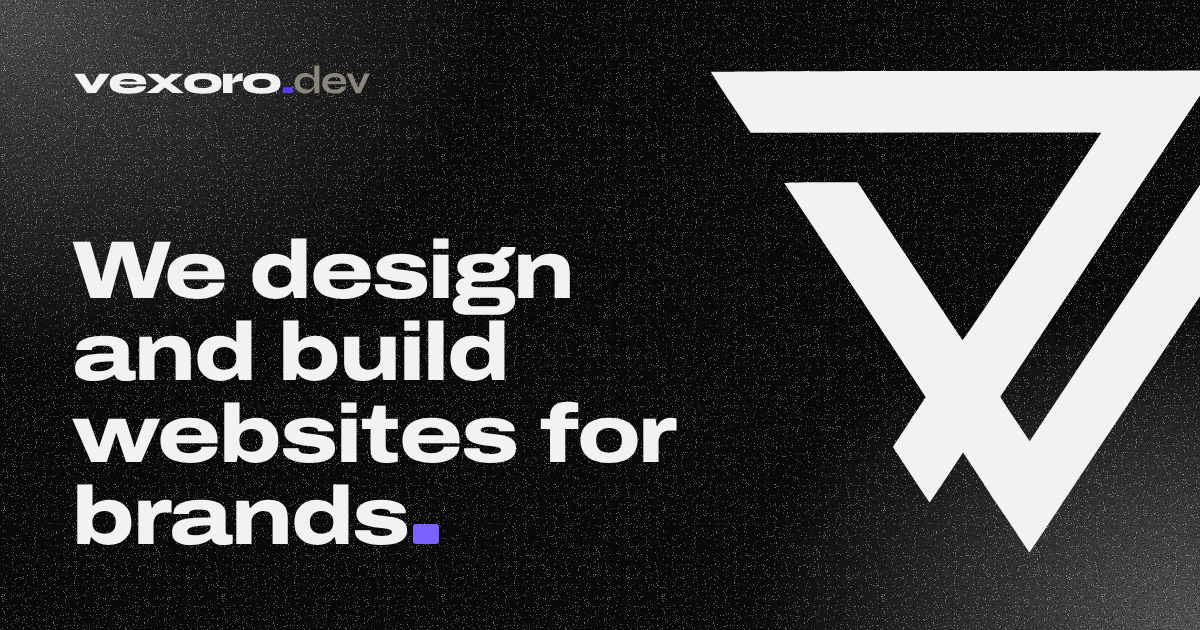
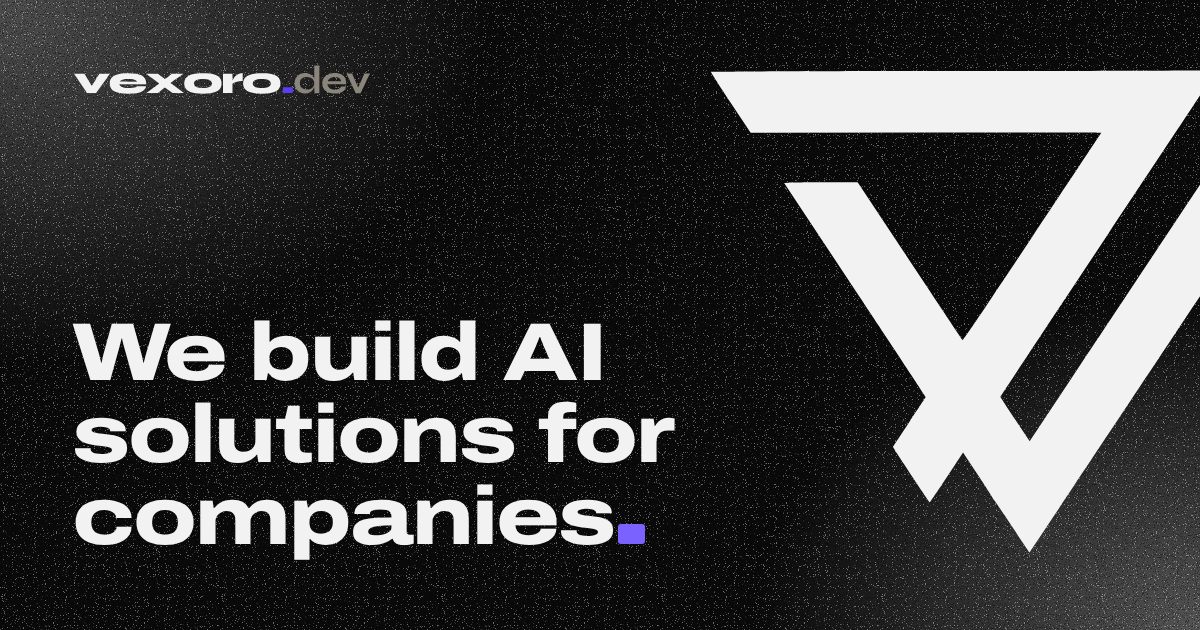
Reposition vexoro around AI solutions; branding and web become a part
- Hero, share image and home metadata lead with AI solutions for companies.
- New /ai page and home section: assistants, automation, document
  processing, knowledge assistants, custom AI, strategy (shared table
  component with Brand & Web).
- 'ai that works' scroll section with AI + brand/web icons.
- Nav: AI Solutions, Brand & Web, Process, Pricing, FAQ.
- Three AI FAQs; schema services/knowsAbout, site description,
  sitemap and llms.txt updated.

Claude-Session: https://claude.ai/code/session_01EvrcoXwkrmmrRvKsMQeviQ

Changed region(s): [[0.0617, 0.3619, 0.5242, 0.6032], [0.0617, 0.6333, 0.555, 0.9048], [0.4625, 0.6333, 0.555, 0.7238]]

diff --git a/components/sections.tsx b/components/sections.tsx
@@ -1,4 +1,4 @@
-// Home page sections, also rendered on their own routes (/services, /process, /seo, /faq, /contact).
+// Home page sections, also rendered on their own routes (/ai, /services, /process, /seo, /faq, /contact).
 // Pass h1 when a section is the main content of its page.
 import Link from "next/link";
 import { ContactForm } from "@/components/contact-form";
@@ -84,41 +84,61 @@ const faqData: FaqSectionData = {
     </>
   ),
   rows: [
-    { id: "row1", speed: "70s", direction: "left", faqItems: FAQS.slice(0, 3) },
-    { id: "row2", speed: "55s", direction: "right", faqItems: FAQS.slice(3, 5) },
-    { id: "row3", speed: "80s", direction: "left", faqItems: FAQS.slice(5) },
+    { id: "row1", speed: "75s", direction: "left", faqItems: FAQS.slice(0, 3) },
+    { id: "row2", speed: "60s", direction: "right", faqItems: FAQS.slice(3, 6) },
+    { id: "row3", speed: "85s", direction: "left", faqItems: FAQS.slice(6) },
   ],
 };
 
-export function ServicesSection({ h1 = false }: { h1?: boolean }) {
+const AI_SOLUTIONS = [
+  { name: "AI assistants", detail: "Chat assistants for your website and WhatsApp that answer customer questions, capture leads and book appointments, using your business information.", time: "Website, WhatsApp" },
+  { name: "Workflow automation", detail: "AI that handles repetitive work across your tools: data entry, follow-ups, summaries and reports.", time: "Email, sheets, CRM" },
+  { name: "Document processing", detail: "Pull the information you need out of invoices, forms, contracts and PDFs, and organise it automatically.", time: "PDFs, forms, invoices" },
+  { name: "Knowledge assistant", detail: "A private assistant that answers your team's questions from your own documents, policies and manuals.", time: "Your documents" },
+  { name: "Custom AI features", detail: "AI search, summaries and content tools built into your existing website, app or internal system.", time: "Your site or app" },
+  { name: "AI strategy", detail: "A workshop to find where AI saves your business the most time, with a clear plan and cost estimate before anything is built.", time: "Workshop + plan" },
+];
+
+type Row = { name: string; detail: string; time: string };
+function OfferTable({ id, title, lead, rows, cols, h1 }: { id: string; title: string; lead: React.ReactNode; rows: Row[]; cols: [string, string, string]; h1: boolean }) {
   const H = h1 ? "h1" : "h2";
   return (
-  <section className="section" id="services" aria-labelledby="services-title">
-    <div className="wrap">
-      <div className="section-head">
-        <H id="services-title">Services</H>
-        <p>Every project gets a fixed quote before work starts. Timelines assume content and feedback arrive on schedule. <Link className="text-link" href="/pricing">See packages and prices</Link>.</p>
+    <section className="section" id={id} aria-labelledby={`${id}-title`}>
+      <div className="wrap">
+        <div className="section-head">
+          <H id={`${id}-title`}>{title}</H>
+          <p>{lead}</p>
+        </div>
+        <table className="services">
+          <thead>
+            <tr>{cols.map((c) => <th key={c} scope="col">{c}</th>)}</tr>
+          </thead>
+          <tbody>
+            {rows.map((s) => (
+              <tr key={s.name}>
+                <th scope="row">{s.name}</th>
+                <td>{s.detail}</td>
+                <td>{s.time}</td>
+              </tr>
+            ))}
+          </tbody>
+        </table>
       </div>
-      <table className="services">
-        <thead>
-          <tr>
-            <th scope="col">Service</th>
-            <th scope="col">What you get</th>
-            <th scope="col">Typical time</th>
-          </tr>
-        </thead>
-        <tbody>
-          {SERVICES.map((s) => (
-            <tr key={s.name}>
-              <th scope="row">{s.name}</th>
-              <td>{s.detail}</td>
-              <td>{s.time}</td>
-            </tr>
-          ))}
-        </tbody>
-      </table>
-    </div>
-  </section>
+    </section>
+  );
+}
+
+export function AiSection({ h1 = false }: { h1?: boolean }) {
+  return (
+    <OfferTable id="ai" title="AI solutions" h1={h1} rows={AI_SOLUTIONS} cols={["Solution", "What it does", "Works with"]}
+      lead={<>AI built around how your company already works. Every project starts with a free consultation and a fixed quote. <Link className="text-link" href="/contact">Talk to us</Link>.</>} />
+  );
+}
+
+export function ServicesSection({ h1 = false }: { h1?: boolean }) {
+  return (
+    <OfferTable id="services" title="Brand & web" h1={h1} rows={SERVICES} cols={["Service", "What you get", "Typical time"]}
+      lead={<>The brand and website around your business. Every project gets a fixed quote before work starts. <Link className="text-link" href="/pricing">See packages and prices</Link>.</>} />
   );
 }
 

diff --git a/app/page.tsx b/app/page.tsx
@@ -1,5 +1,5 @@
 import { Mark } from "@/components/brand";
-import { ContactSection, FaqPageSection, ProcessSection, SeoSection, ServicesSection } from "@/components/sections";
+import { AiSection, ContactSection, FaqPageSection, ProcessSection, SeoSection, ServicesSection } from "@/components/sections";
 import { Skiper31 } from "@/components/ui/text-scroll-animation";
 import type { Metadata } from "next";
 import Link from "next/link";
@@ -7,9 +7,9 @@ import { homeStructuredData } from "@/lib/structured-data";
 import { pageMetadata } from "@/lib/site";
 
 
-const TITLE = "vexoro | Web Design & Development Studio in Oman";
+const TITLE = "vexoro | AI Solutions, Branding & Web Development in Oman";
 const DESCRIPTION =
-  "Fast, search-ready websites for businesses in Oman and brands worldwide: brand sites, landing pages, online stores and SEO. Packages from 15 OMR.";
+  "AI assistants, workflow automation and custom AI for companies in Oman and worldwide, plus the branding and website around them. Free consultation.";
 
 export const metadata: Metadata = pageMetadata({ path: "/", title: TITLE, description: DESCRIPTION });
 
@@ -21,15 +21,15 @@ export default function Home() {
       <section className="hero" aria-labelledby="hero-title">
         <div className="wrap hero-inner">
           <h1 id="hero-title">
-            We design and build websites for brands<span className="sq" aria-hidden="true" />
+            We build AI solutions for companies<span className="sq" aria-hidden="true" />
           </h1>
           <div className="hero-foot">
             <p className="hero-text">
-              vexoro is a small studio. We do the design, the code and the search setup ourselves, then hand you a site you fully own.
+              vexoro designs and builds AI assistants, automations and integrations for businesses in Oman and worldwide, plus the brand and website around them.
             </p>
             <div className="hero-links">
               <Link className="btn" href="/contact">Tell us about your project</Link>
-              <Link className="text-link" href="/pricing">Packages from 15 OMR</Link>
+              <Link className="text-link" href="/ai">Explore AI solutions</Link>
             </div>
           </div>
         </div>
@@ -38,6 +38,7 @@ export default function Home() {
 
       <Skiper31 />
 
+      <AiSection />
       <ServicesSection />
       <ProcessSection />
       <SeoSection />

diff --git a/components/ui/text-scroll-animation.tsx b/components/ui/text-scroll-animation.tsx
@@ -7,7 +7,7 @@ import {
   useTransform,
   type MotionValue,
 } from "framer-motion";
-import { Code2, Gauge, PenTool, Search, ShoppingBag, Smartphone, type LucideIcon } from "lucide-react";
+import { Bot, BrainCircuit, Code2, FileText, Palette, Workflow, type LucideIcon } from "lucide-react";
 import React, { useRef } from "react";
 import { cn } from "@/lib/utils";
 import { useIsTouch, usePrefersReducedMotion } from "@/hooks/use-prefers-reduced-motion";
@@ -102,17 +102,17 @@ type TextScrollAnimationProps = {
 };
 
 const DEFAULT_ITEMS = [
-  { icon: PenTool, label: "Design" },
-  { icon: Code2, label: "Code" },
-  { icon: Smartphone, label: "Mobile" },
-  { icon: Search, label: "SEO" },
-  { icon: ShoppingBag, label: "Stores" },
-  { icon: Gauge, label: "Speed" },
+  { icon: Bot, label: "Assistants" },
+  { icon: Workflow, label: "Automation" },
+  { icon: FileText, label: "Documents" },
+  { icon: BrainCircuit, label: "Knowledge" },
+  { icon: Palette, label: "Branding" },
+  { icon: Code2, label: "Websites" },
 ];
 
 const Skiper31 = ({
-  text = "made for brands",
-  caption = "everything a brand needs online",
+  text = "ai that works",
+  caption = "AI, brand and web under one roof",
   items = DEFAULT_ITEMS,
 }: TextScrollAnimationProps) => {
   const textRef = useRef<HTMLElement | null>(null);

diff --git a/lib/structured-data.ts b/lib/structured-data.ts
@@ -8,6 +8,12 @@ const SITE_ID = abs("/#website");
 const SERVICE_ID = abs("/#service");
 
 const SERVICES = [
+  "AI assistants and chatbots",
+  "AI workflow automation",
+  "AI document processing",
+  "Private AI knowledge assistants",
+  "Custom AI integrations",
+  "AI strategy consulting",
   "Brand website design and development",
   "Landing page design and development",
   "Online store development",
@@ -84,11 +90,11 @@ const professionalService = {
   areaServed: [{ "@type": "Country", name: "Oman" }, "Worldwide"],
   priceRange: "15–75+ OMR",
   currenciesAccepted: SITE.currency,
-  knowsAbout: ["Web design", "Web development", "Search engine optimisation", "E-commerce", "Landing pages", "Next.js"],
+  knowsAbout: ["Artificial intelligence", "AI assistants", "Business process automation", "Large language models", "Web design", "Web development", "Search engine optimisation", "E-commerce", "Landing pages", "Next.js"],
   parentOrganization: { "@id": ORG_ID },
   hasOfferCatalog: {
     "@type": "OfferCatalog",
-    name: "Website services",
+    name: "AI, branding and web services",
     url: abs("/pricing"),
     itemListElement: [
       ...SERVICES.map((name) => ({ "@type": "Offer", itemOffered: { "@type": "Service", name } })),

diff --git a/lib/faq.ts b/lib/faq.ts
@@ -3,6 +3,21 @@ export type Faq = { id: string; question: string; answer: string };
 
 export const FAQS: Faq[] = [
   {
+    id: "ai1",
+    question: "What AI solutions can you build for my company?",
+    answer: "AI assistants for your website and WhatsApp, workflow automation, document processing, private knowledge assistants and custom AI features inside your existing systems. We start by finding where AI saves you the most time.",
+  },
+  {
+    id: "ai2",
+    question: "How much does an AI solution cost?",
+    answer: "AI projects are quoted per project after a free consultation, based on the scope and the tools involved. You get a fixed quote before any work starts.",
+  },
+  {
+    id: "ai3",
+    question: "Can AI work with WhatsApp and the tools we already use?",
+    answer: "Yes. We connect AI to WhatsApp, your website, email, spreadsheets and business systems wherever they allow access, so your team keeps working the way it does today.",
+  },
+  {
     id: "q1",
     question: "How much does a website cost?",
     answer: "It depends on the number of pages, the features and how much content we write for you. Send us a short brief and we'll reply with a fixed quote within two business days.",

diff --git a/app/services/page.tsx b/app/services/page.tsx
@@ -3,7 +3,7 @@ import { ServicesSection, ContactSection } from "@/components/sections";
 import { pageMetadata } from "@/lib/site";
 import { subpageStructuredData } from "@/lib/structured-data";
 
-const TITLE = "Web Design & Development Services in Oman";
+const TITLE = "Branding & Web Development Services in Oman";
 const DESCRIPTION = "Brand websites, landing pages, online stores, web apps, SEO audits and care plans. Fixed quotes, clear timelines, and you own what we build.";
 
 export const metadata: Metadata = pageMetadata({ path: "/services", title: TITLE, description: DESCRIPTION });
@@ -13,7 +13,7 @@ export default function Page() {
     <main id="main" className="subpage">
       <script
         type="application/ld+json"
-        dangerouslySetInnerHTML={{ __html: JSON.stringify(subpageStructuredData("/services", "Services", `${TITLE} | vexoro`, DESCRIPTION)) }}
+        dangerouslySetInnerHTML={{ __html: JSON.stringify(subpageStructuredData("/services", "Brand & Web", `${TITLE} | vexoro`, DESCRIPTION)) }}
       />
       <ServicesSection h1 />
       <ContactSection />

diff --git a/app/ai/page.tsx b/app/ai/page.tsx
@@ -1,0 +1,22 @@
+import type { Metadata } from "next";
+import { AiSection, ContactSection } from "@/components/sections";
+import { pageMetadata } from "@/lib/site";
+import { subpageStructuredData } from "@/lib/structured-data";
+
+const TITLE = "AI Solutions for Companies in Oman";
+const DESCRIPTION = "AI assistants for your website and WhatsApp, workflow automation, document processing and custom AI for companies in Oman. Free consultation.";
+
+export const metadata: Metadata = pageMetadata({ path: "/ai", title: TITLE, description: DESCRIPTION });
+
+export default function Page() {
+  return (
+    <main id="main" className="subpage">
+      <script
+        type="application/ld+json"
+        dangerouslySetInnerHTML={{ __html: JSON.stringify(subpageStructuredData("/ai", "AI Solutions", `${TITLE} | vexoro`, DESCRIPTION)) }}
+      />
+      <AiSection h1 />
+      <ContactSection />
+    </main>
+  );
+}

diff --git a/lib/site.ts b/lib/site.ts
@@ -4,7 +4,7 @@ export const SITE = {
   url: "https://vexoro.dev",
   email: "hello@vexoro.dev",
   description:
-    "vexoro is a web design and development studio building fast, search-ready websites for businesses in Oman and brands worldwide.",
+    "vexoro builds AI solutions for companies in Oman and worldwide: AI assistants, workflow automation and custom AI, plus branding and websites.",
   ogImage: "/assets/img/og-image.png",
   logo: "/assets/brand/vexoro-mark.png",
   areaServed: ["Oman", "Worldwide"],
@@ -17,7 +17,7 @@ const OG_IMAGE = {
   url: SITE.ogImage,
   width: 1200,
   height: 630,
-  alt: "vexoro logo and the line: We design and build websites for brands.",
+  alt: "vexoro logo and the line: We build AI solutions for companies.",
 };
 
 /** Per-page metadata. Next.js replaces (not merges) openGraph/twitter objects, so every page gets the full set. */

diff --git a/app/faq/page.tsx b/app/faq/page.tsx
@@ -3,8 +3,8 @@ import { FaqPageSection, ContactSection } from "@/components/sections";
 import { pageMetadata } from "@/lib/site";
 import { subpageStructuredData } from "@/lib/structured-data";
 
-const TITLE = "Web Design FAQ: Cost, SEO, Ownership and Timelines";
-const DESCRIPTION = "Answers about website cost, SEO, ownership, editing your site and timelines from vexoro, a web design studio in Oman.";
+const TITLE = "AI & Web Design FAQ: Cost, Tools, Ownership and Timelines";
+const DESCRIPTION = "Answers about AI solutions, cost, WhatsApp and tool integrations, website ownership, editing and timelines from vexoro in Oman.";
 
 export const metadata: Metadata = pageMetadata({ path: "/faq", title: TITLE, description: DESCRIPTION });
 

diff --git a/components/site-header.tsx b/components/site-header.tsx
@@ -5,11 +5,11 @@ import { useEffect, useState } from "react";
 import { Wordmark } from "@/components/brand";
 
 const LINKS = [
-  { href: "/services", label: "Services" },
+  { href: "/ai", label: "AI Solutions" },
+  { href: "/services", label: "Brand & Web" },
   { href: "/process", label: "Process" },
-  { href: "/seo", label: "SEO" },
-  { href: "/faq", label: "FAQ" },
   { href: "/pricing", label: "Pricing" },
+  { href: "/faq", label: "FAQ" },
 ];
 
 export function SiteHeader() {

diff --git a/app/sitemap.ts b/app/sitemap.ts
@@ -11,6 +11,12 @@ export default function sitemap(): MetadataRoute.Sitemap {
       priority: 1,
       images: [`${SITE.url}${SITE.ogImage}`],
     },
+    {
+      url: `${SITE.url}/ai`,
+      lastModified: new Date("2026-10-08"),
+      changeFrequency: "monthly",
+      priority: 0.95,
+    },
     ...["services", "process", "seo", "faq", "contact"].map((p) => ({
       url: `${SITE.url}/${p}`,
       lastModified: new Date("2026-10-02"),

diff --git a/components/site-footer.tsx b/components/site-footer.tsx
@@ -6,7 +6,8 @@ export function SiteFooter() {
       <div className="wrap footer-inner">
         <Wordmark className="footer-wordmark" />
         <nav aria-label="Footer">
-          <a href="/services">Services</a>
+          <a href="/ai">AI Solutions</a>
+          <a href="/services">Brand &amp; Web</a>
           <a href="/process">Process</a>
           <a href="/seo">SEO</a>
           <a href="/faq">FAQ</a>
